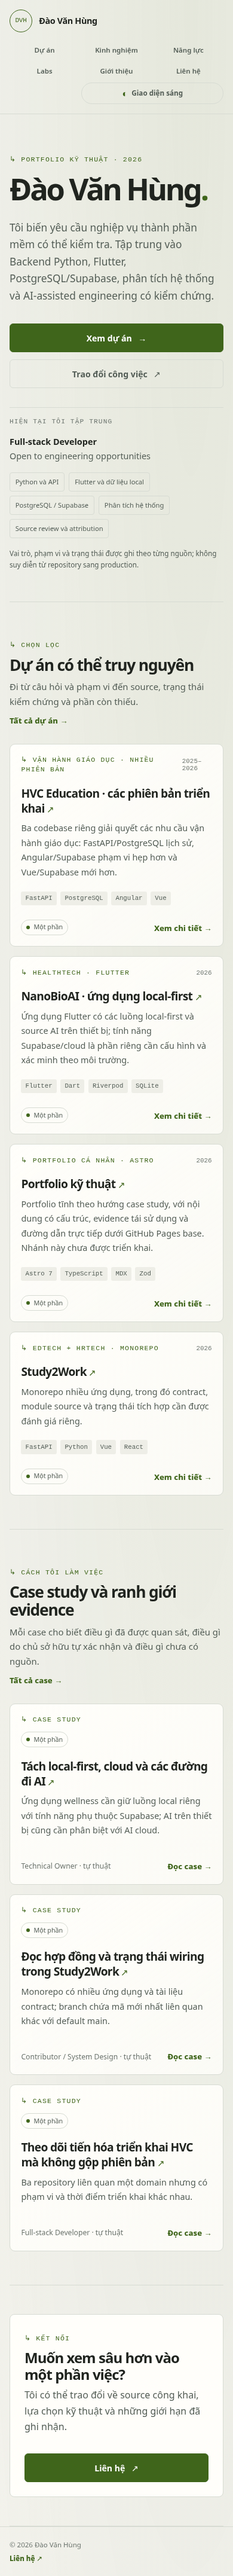
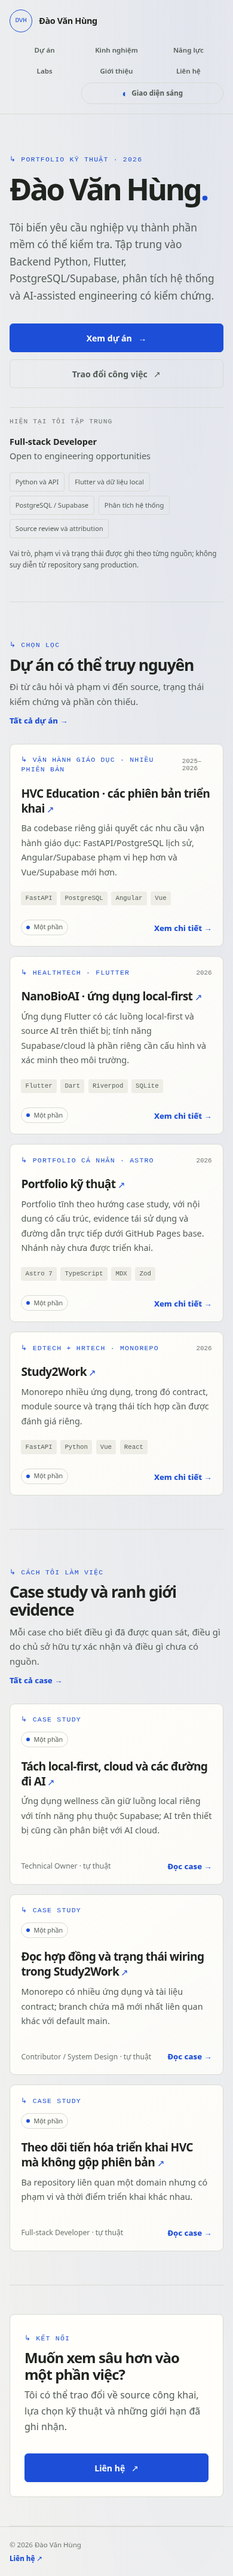
style: switch portfolio primary accent to cobalt

Changed region(s): [[0.0308, 0.1244, 0.9538, 0.1555], [0.0923, 0.9331, 0.8923, 0.9643]]

diff --git a/src/styles/global.css b/src/styles/global.css
@@ -11,9 +11,9 @@
   --muted: #a5aaa8;
   --subtle: #929896;
   --line: #343a39;
-  --accent: #b5f36f;
-  --accent-ink: #17200e;
-  --accent-soft: rgb(181 243 111 / 11%);
+  --accent: #8ab4f8;
+  --accent-ink: #10233a;
+  --accent-soft: rgb(138 180 248 / 11%);
   --warm: #e8aa83;
   --shadow: 0 18px 42px rgb(0 0 0 / 20%);
   --measure: 70ch;
@@ -28,9 +28,9 @@
   --muted: #535d56;
   --subtle: #6d756f;
   --line: #d7dbd3;
-  --accent: #3f651b;
+  --accent: #1d4ed8;
   --accent-ink: #fff;
-  --accent-soft: rgb(63 101 27 / 9%);
+  --accent-soft: rgb(29 78 216 / 9%);
   --warm: #955433;
   --shadow: 0 18px 42px rgb(36 44 32 / 9%);
 }
